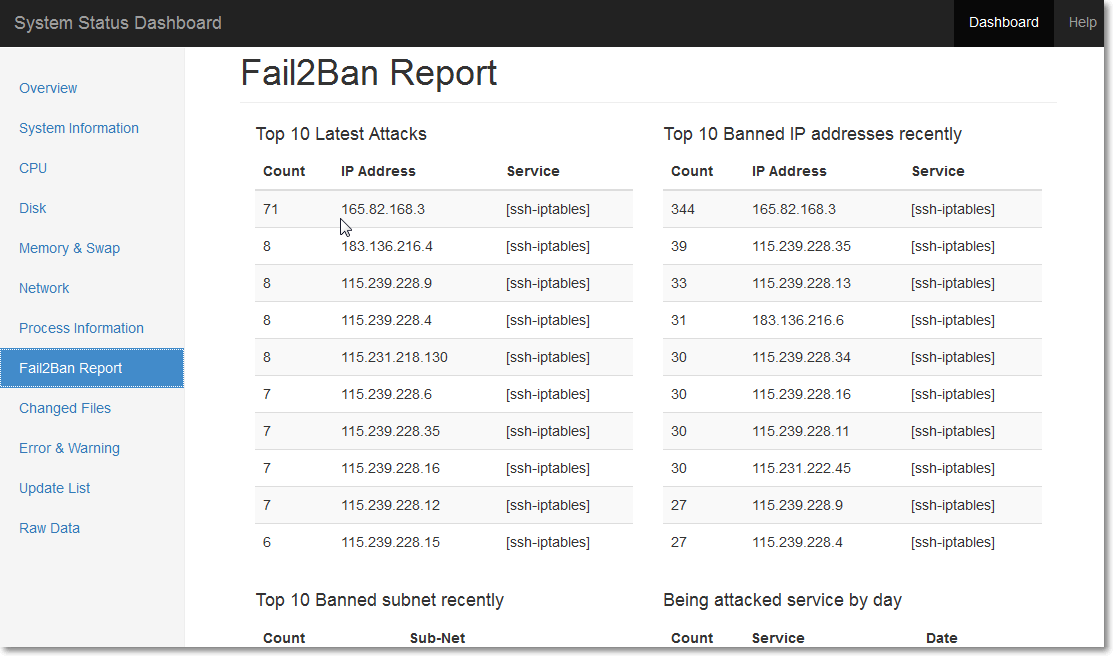
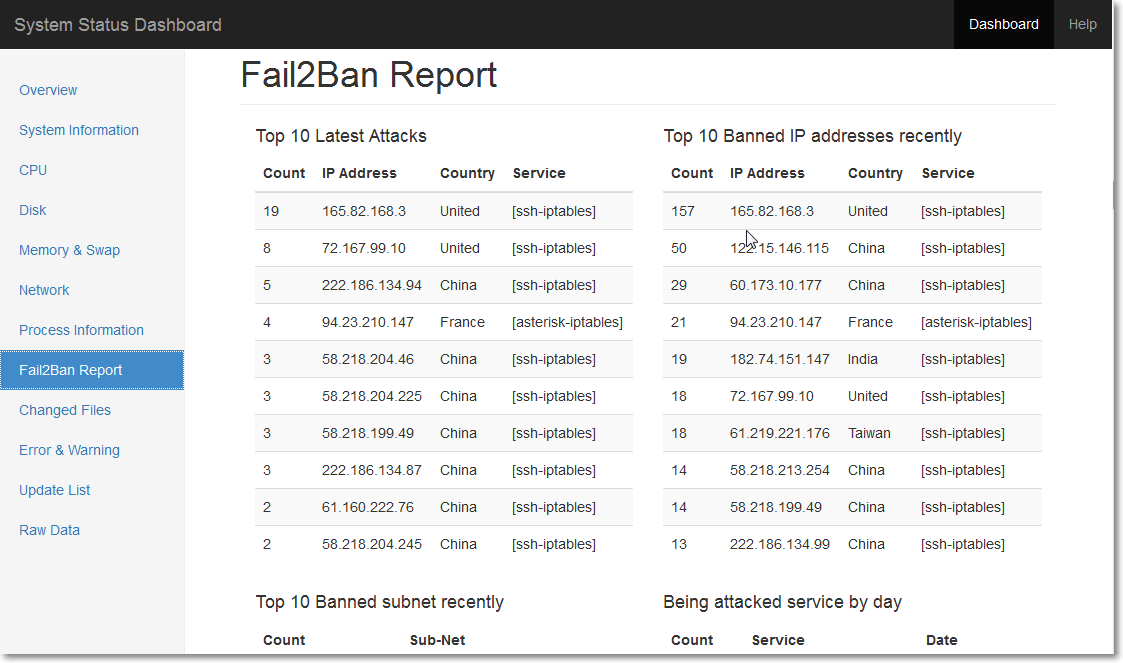
Added the column Country

diff --git a/html/Fedora_System_Status_Dashboard_files/setup.min.js b/html/Fedora_System_Status_Dashboard_files/setup.min.js
@@ -60,8 +60,8 @@ var FR1="";
 var FR2="";
 var FR3="";
 var FR4="";
-for(var i=0;i<=e.F2B_10T_Attack.length-1;i++){FR1=FR1+"<tr>";for(var h=0;h<=3-1;h++){FR1=FR1+"<td>"+e.F2B_10T_Attack[i][h]+"</td>"}FR1=FR1+"</tr>"}
-for(var i=0;i<=e.F2B_10T_IP.length-1;i++){FR2=FR2+"<tr>";for(var h=0;h<=3-1;h++){FR2=FR2+"<td>"+e.F2B_10T_IP[i][h]+"</td>"}FR2=FR2+"</tr>"}
+for(var i=0;i<=e.F2B_10T_Attack.length-1;i++){FR1=FR1+"<tr>";for(var h=0;h<=4-1;h++){FR1=FR1+"<td>"+e.F2B_10T_Attack[i][h]+"</td>"}FR1=FR1+"</tr>"}
+for(var i=0;i<=e.F2B_10T_IP.length-1;i++){FR2=FR2+"<tr>";for(var h=0;h<=4-1;h++){FR2=FR2+"<td>"+e.F2B_10T_IP[i][h]+"</td>"}FR2=FR2+"</tr>"}
 for(var i=0;i<=e.F2B_10T_NET.length-1;i++){FR3=FR3+"<tr>";for(var h=0;h<=2-1;h++){FR3=FR3+"<td>"+e.F2B_10T_NET[i][h]+"</td>"}FR3=FR3+"</tr>"}
 for(var i=0;i<=e.F2B_SVC_DAY.length-1;i++){FR4=FR4+"<tr>";for(var h=0;h<=3-1;h++){FR4=FR4+"<td>"+e.F2B_SVC_DAY[i][h]+"</td>"}FR4=FR4+"</tr>"}
 // End

diff --git a/html/index.html b/html/index.html
@@ -105,12 +105,12 @@
 <div class="col-xs-12 col-sm-12 col-md-6 col-lg-6">
 <h4>Top 10 Latest Attacks</h4>
 <div class=table-responsive>
-<table class="table table-striped"><thead><tr><th>Count<th>IP Address<th>Service<tbody id=F2B_10T_Attack_Table></table>
+<table class="table table-striped"><thead><tr><th>Count<th>IP Address<th>Country<th>Service<tbody id=F2B_10T_Attack_Table></table>
 </div></div>
 <div class="col-xs-12 col-sm-12 col-md-6 col-lg-6">
 <h4>Top 10 Banned IP addresses recently</h4>
 <div class=table-responsive>
-<table class="table table-striped"><thead><tr><th>Count<th>IP Address<th>Service<tbody id=F2B_10T_IP_Table></table>
+<table class="table table-striped"><thead><tr><th>Count<th>IP Address<th>Country<th>Service<tbody id=F2B_10T_IP_Table></table>
 </div></div>
 <div class="col-xs-12 col-sm-12 col-md-6 col-lg-6">
 <h4>Top 10 Banned subnet recently</h4>

diff --git a/README.md b/README.md
@@ -12,6 +12,7 @@ How to use it?
 ---------------
 1. Install the following packages.  
  `yum install git sysstat`
+ `yum install GeoIP`
 2. Clone it to the computer  
  `git clone https://github.com/a-lang/F2B-Report.git` 
 3. Using the git to monitor a few important system files such as /etc/passwd, /etc/group, etc.  
